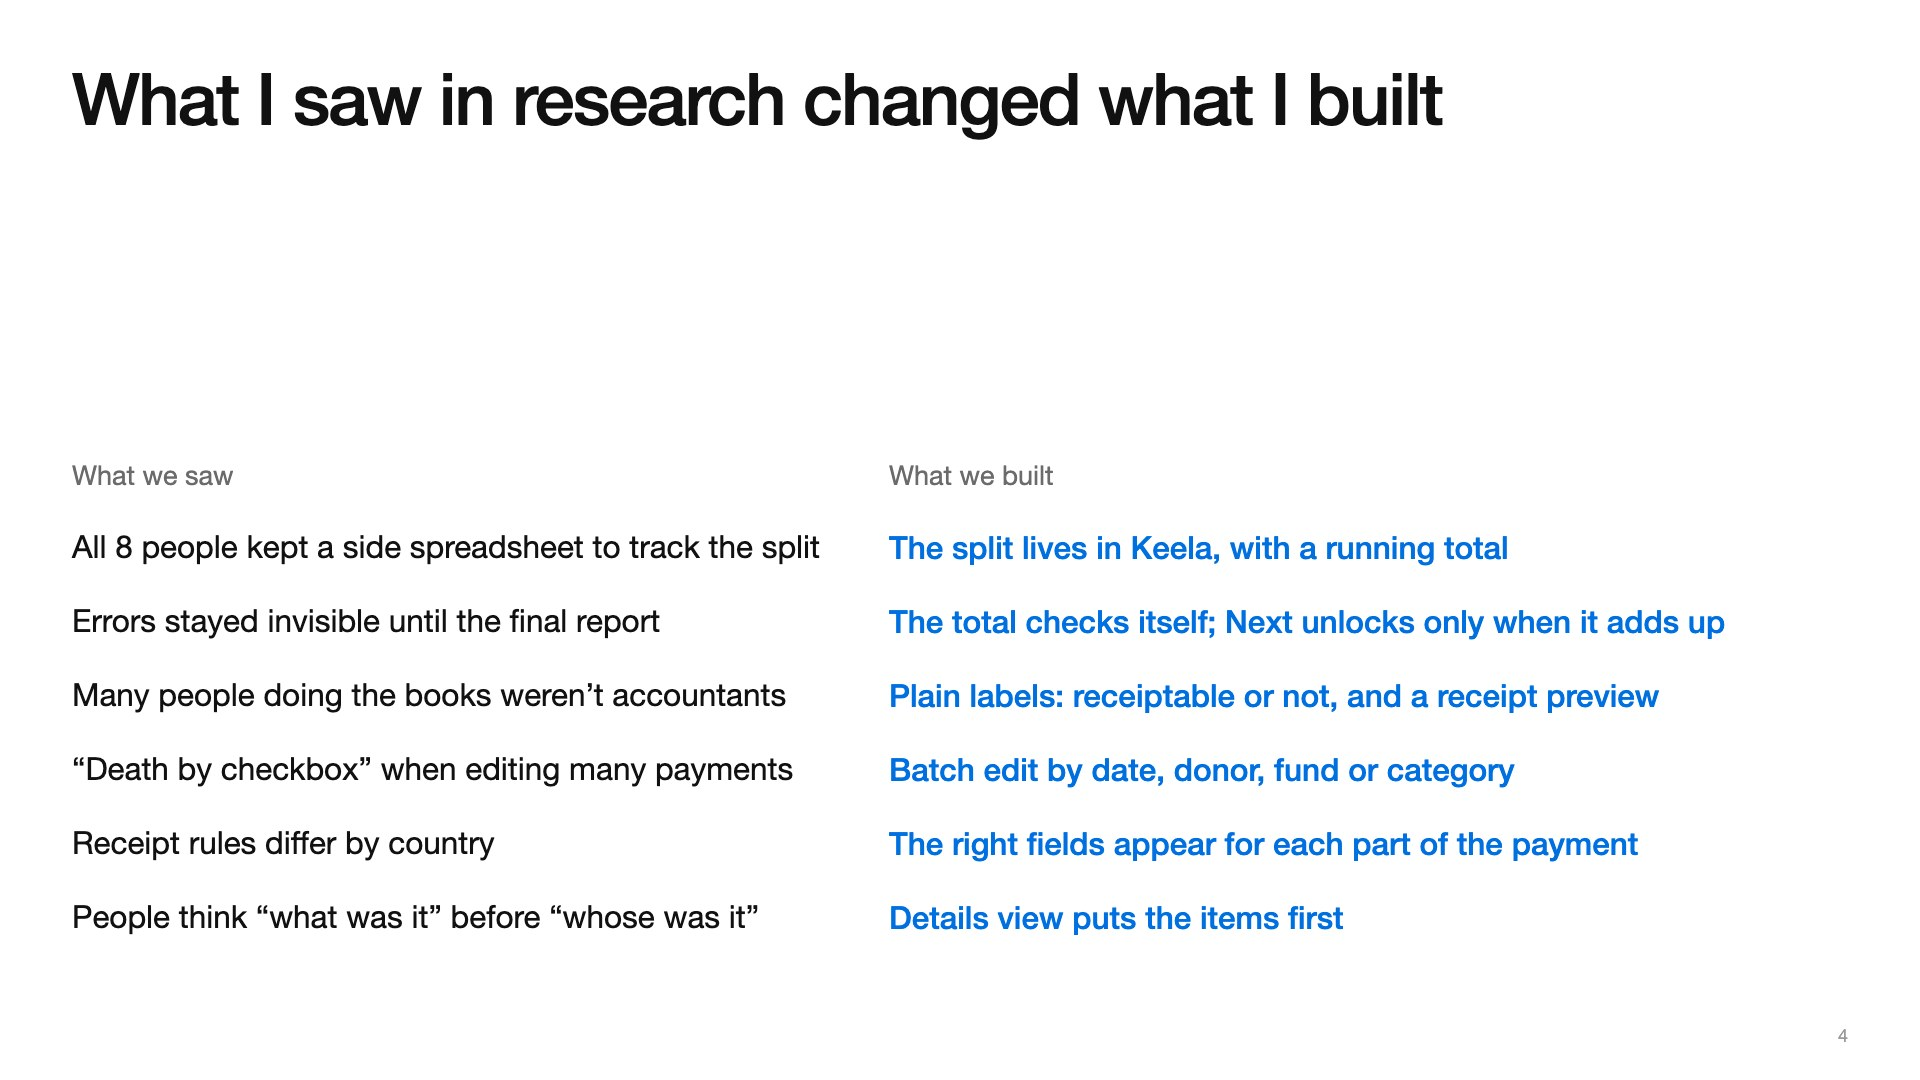
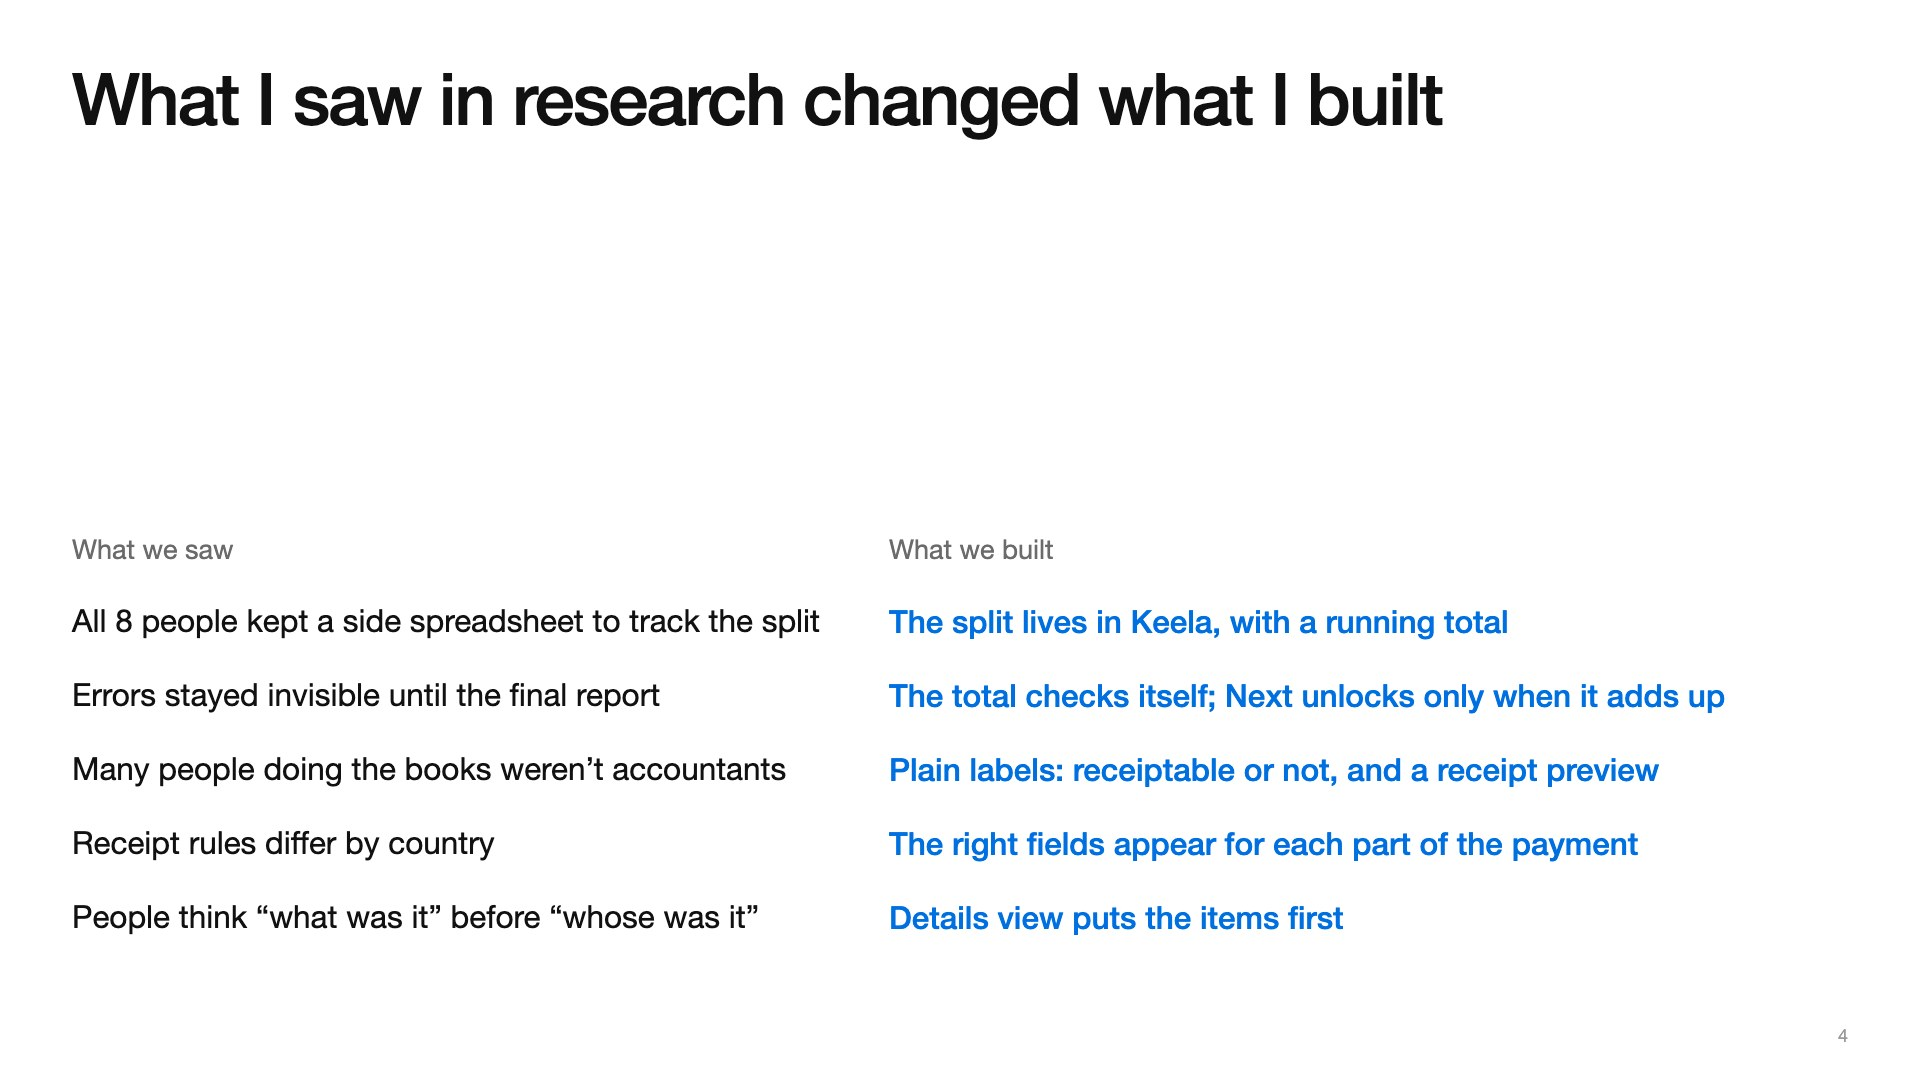
Study page: batch edit removed, receipt rules hover shows the receipt by country

diff --git a/study/research.html b/study/research.html
@@ -45,12 +45,9 @@ h1{font-size:clamp(20px,2.6vw,34px);font-weight:500;letter-spacing:-.01em;margin
     ["Many people doing the books weren’t accountants","Plain labels: receiptable or not, and a receipt preview",
       ["img/rs/b3.jpg","The very first choice was an accounting one: Donation or Other Revenue.",OLD],
       ["img/rs/3.jpg","The last step shows what the receipt will say before anything is saved.",REB]],
-    ["“Death by checkbox” when editing many payments","Batch edit by date, donor, fund or category",
-      [null,"No before screen for this one in the deck yet.",""],
-      [null,"No after screen for this one in the deck yet.",""]],
     ["Receipt rules differ by country","The right fields appear for each part of the payment",
       ["img/rs/b5.jpg","One pop-up, with the same fields for the whole payment.",OLD],
-      ["img/rs/5.jpg","Currency and advantage fields show up only on the part that needs them.",ORIG]],
+      ["img/rs/5.gif","The same $200 payment under Canada, US and Australia rules: the receipt changes with each country.","From the live prototype, sample data"]],
     ["People think “what was it” before “whose was it”","Details view puts the items first",
       ["img/rs/b6.jpg","The old details page: one record, every field in a single grid.",OLD],
       ["img/rs/6.jpg","The saved payment opens on its items: what each part was, then the rest.",REB]]
